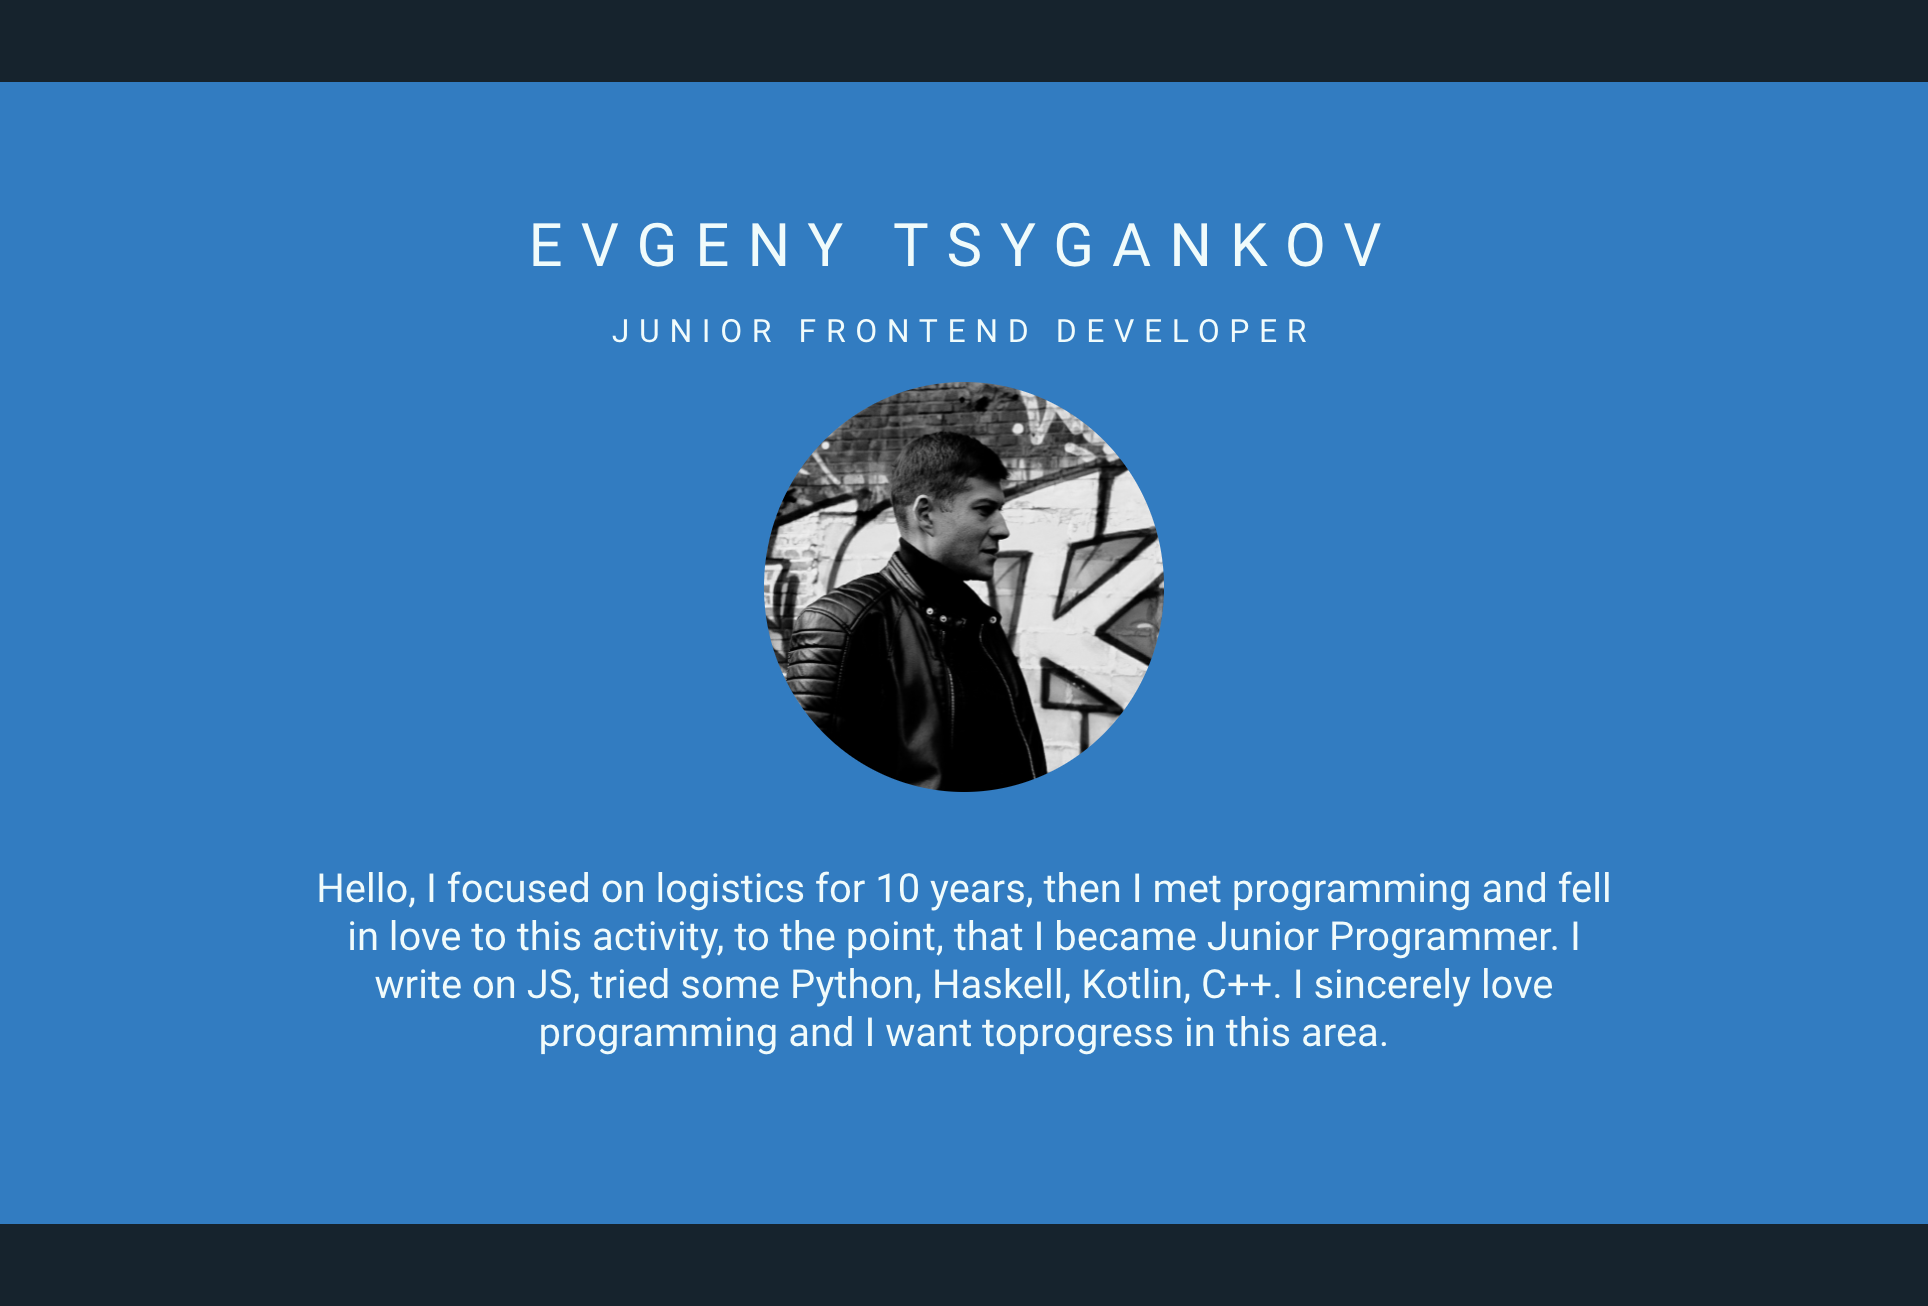
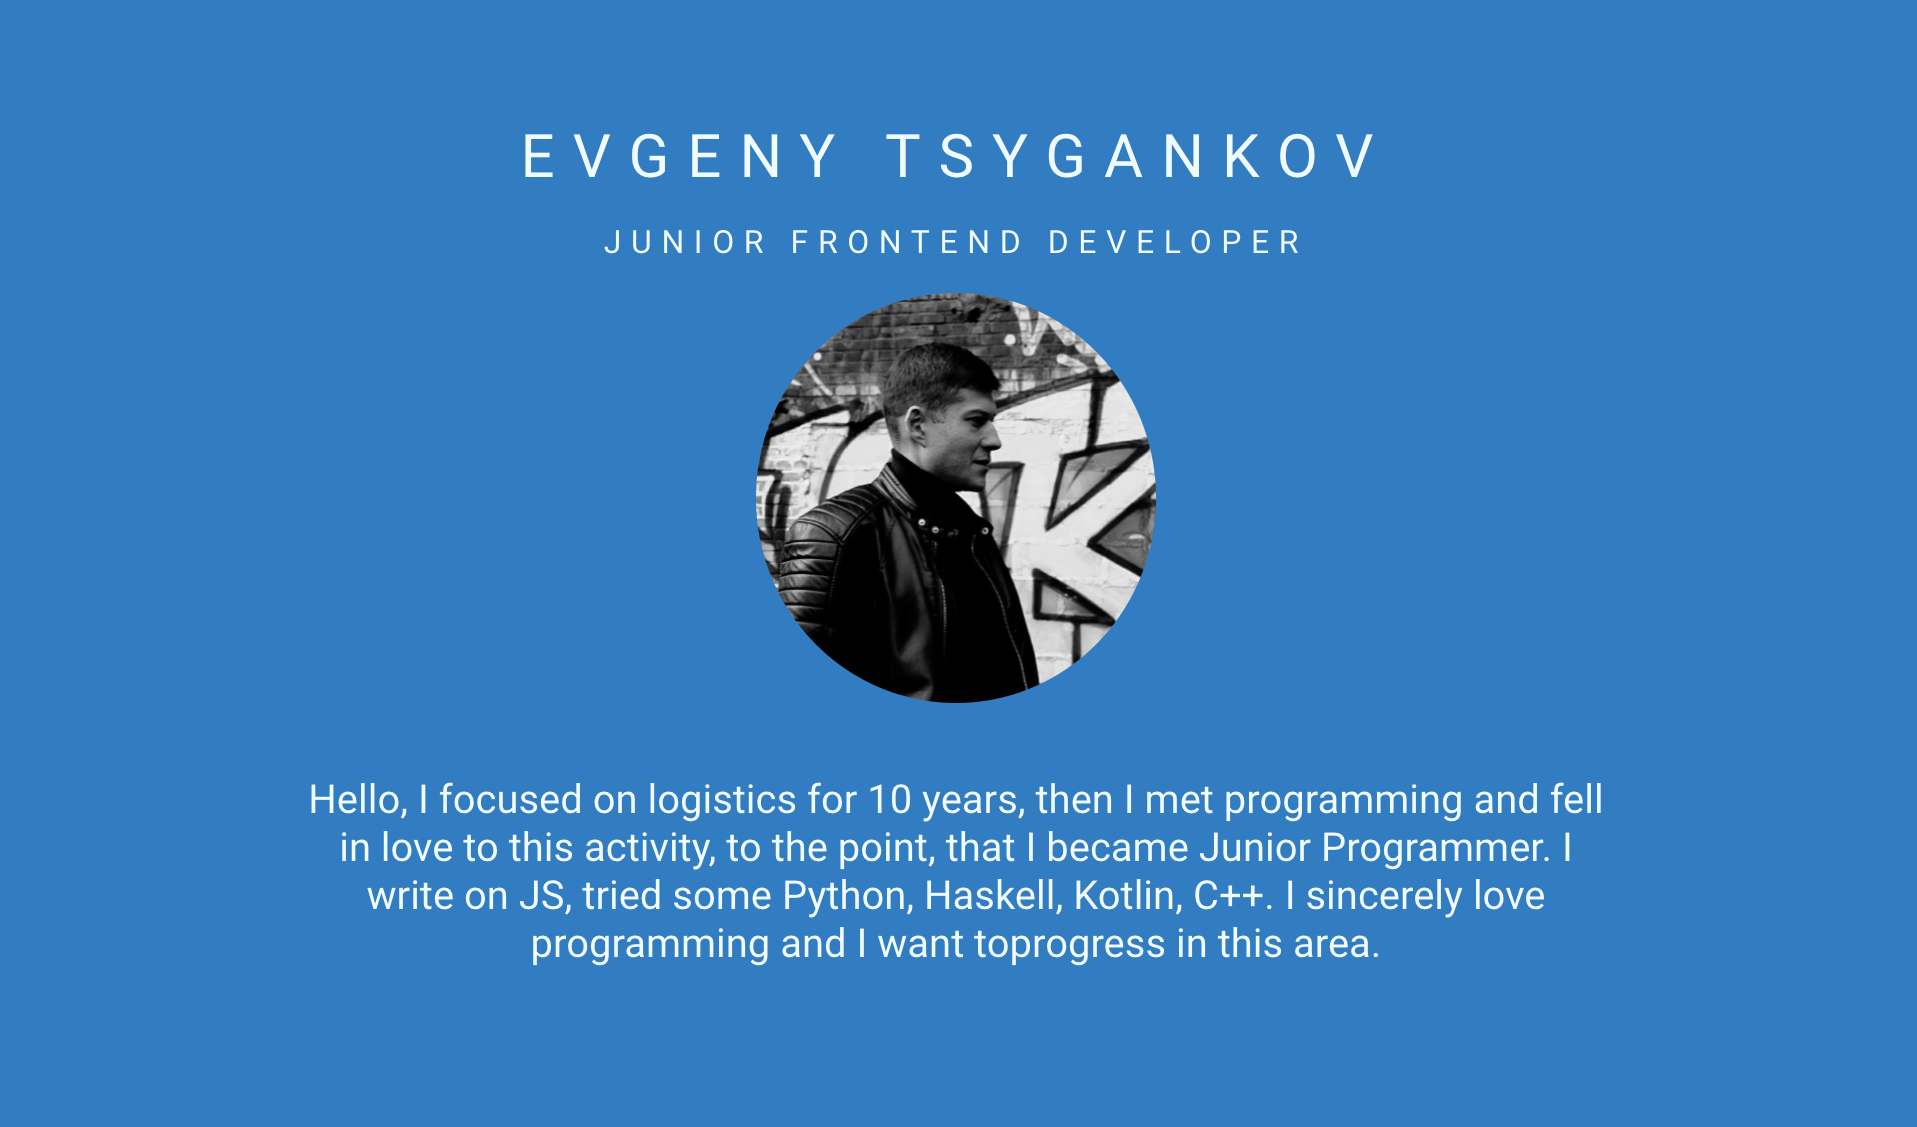
update works list styles

diff --git a/src/components/WorksList/style.scss b/src/components/WorksList/style.scss
@@ -1,6 +1,6 @@
 .workslist-container {
   min-height: 100vh;
-  background-color: #007CC7;
+  background-color: #2d5f99;
   display: flex;
   flex-direction: column;
   justify-content: center;
@@ -8,68 +8,72 @@
 
   h2 {
     padding-top: 4em;
-    padding-bottom: 1em;
   }
 
   .list {
     // background-color: #203647;
-    width: 80%;
+    width: 95%;
     // height: 95%;
     display: flex;
     flex-wrap: wrap;
     justify-content: center;
 
-    a {
-      span {
-        text-transform: uppercase;
-        font-size: 0.8em;
-      }
-
-      display: flex;
-      flex-direction: column;
-      align-items: center;
-      justify-content: space-around;
-
-      text-decoration: none;
-      color: #EEFBFB;
-      &:visited {
-        color: inherit;
-      }
-    }
-
-
 
     .list__item {
-      width: 200px;
-      height: 150px;
-      // background-color: #007CC7;
-      // background-color: #12232E;
+      // flex-basis: 650px;
+      // width: 650px;
+      // height: 500px;
       background-color: #203647;
       transition-duration: 300ms;
       // border: 0.5px solid black;
-      margin-left: 0.5em;
-      margin-top: 0.5em;
-      border: #203647 solid 0.5px;
+      // margin-left: 0.5em;
+      margin-top: 1.5em;
+      // border: #203647 solid 0.5px;
+      box-shadow: 0px 2px 1px -1px rgba(0,0,0,0.2),0px 1px 1px 0px rgba(0,0,0,0.14),0px 1px 3px 0px rgba(0,0,0,0.12);
+      border-radius: 8px;
+      display: flex;
+      flex-direction: column;
+      justify-content: space-between;
+
+      h3 {
+        font-weight: bold;
+      }
 
 
       &:last-child {
         margin-bottom: 4em;
       }
-      &:hover {
-        transform: scale(1.5);
-        cursor: pointer;
-      }
-
-      p {
-        padding: 0;
-      }
-
 
       img {
         width: 100%;
-        height: 85%;
+        height: 250px;
+        border-top-left-radius: 8px;
+        border-top-right-radius: 8px;
       }
 
+      .list__item__description {
+        h3 {
+          padding: 1em 0 0 1em;
+        }
+      }
+
+      a {
+        text-decoration: none;
+        text-transform: uppercase;
+        // color: #EEFBFB;
+        margin: 1em;
+        padding: 0.3em 0.5em;
+        color: #58b4ee;
+        align-self: flex-start;
+
+        &:visited {
+          color: #58b4ee;
+        }
+        &:hover {
+          cursor: pointer;
+          background-color: #244a5f;
+        }
+      }
     }
   }
 }
@@ -142,11 +146,21 @@
   }
 }
 
-@media screen and (min-width: 820px) {
+@media screen and (min-width: 600px) {
+  
+  .list__item {
+    width: 350px;
+    height: 400px;
+    margin-left: 1em;
+
+    img {
+      // height: 250px;
+    }
+  }
+
   .project-description {
     img {
       width: 550px;
     }
   }
-
 }

diff --git a/src/components/Skills/index.js b/src/components/Skills/index.js
@@ -16,27 +16,14 @@ function Skills() {
         <div className='window__content'>
           <pre>
             <code>
-              <span>&lt;h1&gt;</span>Programming<span>&lt;/h1&gt;</span><br/>
-              <span>&lt;ul&gt;</span><br/>
+            <span>&lt;ul&gt;</span><br/>           
                 &nbsp;&nbsp;<span>&lt;li&gt;</span>JavaScript<span>&lt;/li&gt;</span><br/>
                 &nbsp;&nbsp;<span>&lt;li&gt;</span>TypeScript<span>&lt;/li&gt;</span><br/>
                 &nbsp;&nbsp;<span>&lt;li&gt;</span>ReactJS (Hooks)<span>&lt;/li&gt;</span><br/>
                 &nbsp;&nbsp;<span>&lt;li&gt;</span>Redux<span>&lt;/li&gt;</span><br/>
                 &nbsp;&nbsp;<span>&lt;li&gt;</span>Jest<span>&lt;/li&gt;</span><br/>
-              <span>&lt;/ul&gt;</span><br/>
-              <span>&lt;h1&gt;</span>Frontend<span>&lt;/h1&gt;</span><br/>
-              <span>&lt;ul&gt;</span><br/>
-                &nbsp;&nbsp;<span>&lt;li&gt;</span>HTML<span>&lt;/li&gt;</span><br/>
-                &nbsp;&nbsp;<span>&lt;li&gt;</span>CSS<span>&lt;/li&gt;</span><br/>
-                &nbsp;&nbsp;<span>&lt;li&gt;</span>SCSS<span>&lt;/li&gt;</span><br/>
-                &nbsp;&nbsp;<span>&lt;li&gt;</span>Webpack<span>&lt;/li&gt;</span><br/>
-              <span>&lt;/ul&gt;</span><br/>
-              <span>&lt;h1&gt;</span>Version control<span>&lt;/h1&gt;</span><br/>
-              <span>&lt;ul&gt;</span><br/>
-                &nbsp;&nbsp;<span>&lt;li&gt;</span>Git<span>&lt;/li&gt;</span><br/>
-              <span>&lt;/ul&gt;</span><br/>
-              <span>&lt;h1&gt;</span>Preferable OS<span>&lt;/h1&gt;</span><br/>
-              <span>&lt;ul&gt;</span><br/>
+                &nbsp;&nbsp;<span>&lt;li&gt;</span>SASS<span>&lt;/li&gt;</span><br/>
+                &nbsp;&nbsp;<span>&lt;li&gt;</span>Webpack<span>&lt;/li&gt;</span><br/>              
                 &nbsp;&nbsp;<span>&lt;li&gt;</span>macOS<span>&lt;/li&gt;</span><br/>
                 &nbsp;&nbsp;<span>&lt;li&gt;</span>Ubuntu<span>&lt;/li&gt;</span><br/>
               <span>&lt;/ul&gt;</span><br/>

diff --git a/src/components/Skills/style.scss b/src/components/Skills/style.scss
@@ -1,5 +1,5 @@
 .skills {
-  height: 100vh;
+  min-height: 100vh;
   background-color: #12232E;
 
   display: flex;
@@ -16,18 +16,23 @@
     min-width: 300px;
     max-width: 700px;
     min-height: 300px;
+    // max-height: 100%;
     background-color: #EEFBFB;
     background-color: #203647;
-    position: relative;
+    // position: relative;
+    border-radius: 8px;
+    margin-bottom: 4em;
+    box-shadow: 0px 2px 1px -1px rgba(0,0,0,0.2),0px 1px 1px 0px rgba(0,0,0,0.14),0px 1px 3px 0px rgba(0,0,0,0.12);
     
     .window__header {
       display: flex;
-      height: 20px;
-      width: 100%;
-      background-color: #494949;
-      background-color: #007CC7;
-      position: absolute;
-      top: 0;
+      height: 35px;
+      width: 100%;      
+      background-color: #2d5f99;
+      // position: absolute;
+      // top: 0;
+      border-top-left-radius: 8px;
+      border-top-right-radius: 8px;
       
 
       .window_control-panel {
@@ -39,11 +44,12 @@
           height: 12px;
           display: block;
           border-radius: 50%;
-          margin-left: 0.3em;
+          margin-left: 0.5em;
         }
 
         div:nth-of-type(1) {
           background-color: #FC4647;
+          margin-left: 1em;
         }
         div:nth-of-type(2) {
           background-color: #FBB025;
@@ -55,9 +61,10 @@
     }
 
     .window__content {
-      margin-top: 1em;
+      // margin-top: 1em;
       text-align: left;
       padding: 0.5em;
+      line-height: 1.5em;      
 
       span {
         color: rgba(160, 160, 160, 0.5);

diff --git a/src/components/WorksList/index.js b/src/components/WorksList/index.js
@@ -12,10 +12,14 @@ function WorkList() {
         <div className='list'>
           {Object.keys(dataList).map((item) => {  
             return (
-              <Link key={dataList[item].title} to={dataList[item].path} className='list__item'>
-                <img src={dataList[item].imgSrc} alt={dataList[item].altText()}/>
-                <span>{dataList[item].title}</span>
-              </Link>
+              <div key={dataList[item].title} className='list__item'>
+                <div className='list__item__description'>
+                  <img src={dataList[item].imgSrc} alt={dataList[item].altText()}/>                
+                  <h3>{dataList[item].title}</h3>
+                  <p>Description</p>                  
+                </div>
+                <Link to={dataList[item].path}>View</Link>
+              </div>
             )  
           })}
         </div>      

diff --git a/src/components/Intro/style.scss b/src/components/Intro/style.scss
@@ -1,10 +1,10 @@
 .intro-question {
   height: 90vh;
   background-color: #12232E;
-
   display: flex;
   justify-content: space-around;
   align-items: center;
+  text-align: center;
 
   h1 {
     letter-spacing: 0.3em;
@@ -13,7 +13,8 @@
 }
 
 .intro {
-  background-color: #007CC7;
+  background-color: #2d5f99;
+  text-align: center;
   display: flex;
   justify-content: space-around;
 
@@ -38,6 +39,7 @@
       border-radius: 50%;
       width: 200px;
       margin: 1em 0;
+      box-shadow: 0px 2px 1px -1px rgba(0,0,0,0.2),0px 1px 1px 0px rgba(0,0,0,0.14),0px 1px 3px 0px rgba(0,0,0,0.12);
     }
   
   }

diff --git a/src/components/Intro/index.js b/src/components/Intro/index.js
@@ -5,7 +5,7 @@ function Intro() {
   return (
     <>
       <div className='intro-question'>
-        <h1>Are you looking for junior Frontend Developer?</h1>
+        <h1>Are you looking for a junior Frontend Developer?</h1>
       </div>
       <div className='intro'>
         <div className='intro__content'>

diff --git a/src/index.scss b/src/index.scss
@@ -19,11 +19,19 @@ code {
 
 
 h1 {
-    font-size: 30px;
+    font-size: 22px;
+}
+
+h2 {
+  font-size: 18px;
+}
+
+h3 {
+  font-size: 17px;
 }
 
 p {
-    font-size: 20px;
+    font-size: 15px;
     padding: 1em;
 }
 
